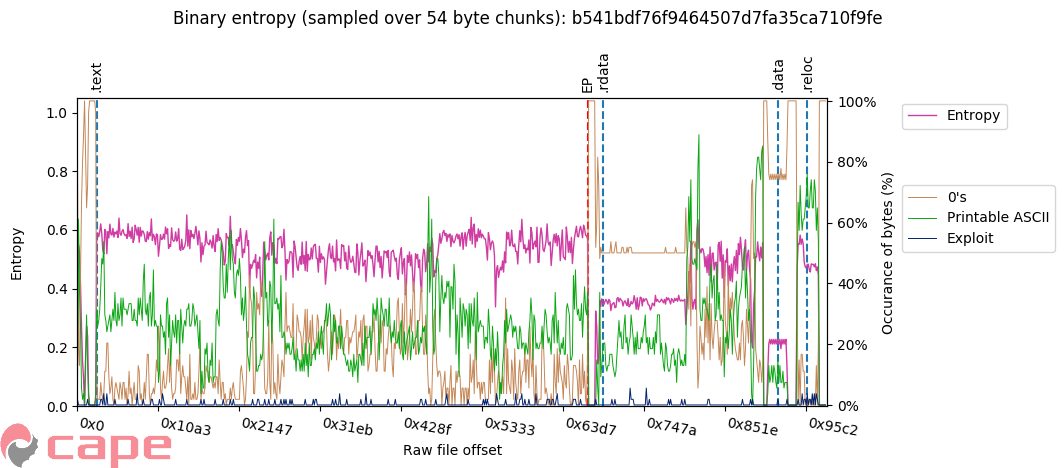
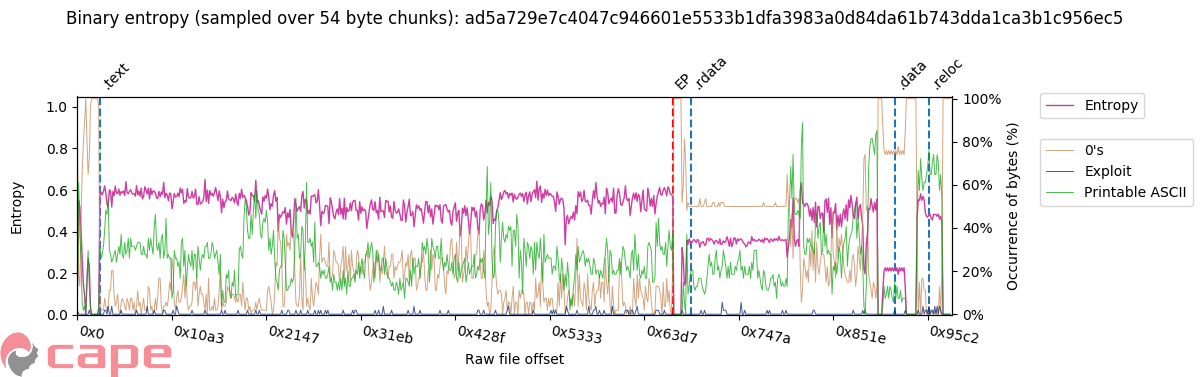
adjusted graphing box to incorporate title and added --showplts for interactive plots

Changed region(s): [[0.0, 0.1167, 1.0, 1.0], [0.031, 0.0, 0.9305, 0.0875]]

diff --git a/binGraph.py b/binGraph.py
@@ -18,7 +18,10 @@ import hashlib
 import statistics
 import os, re
 import json
+import sys
 
+if sys.version_info[0] < 3:
+    raise Exception('Must use Python 3')
 
 # # Helper functions
 def shannon_ent(labels, base=256):
@@ -63,9 +66,10 @@ def clean_fname(fn):
     return ''.join([c for c in fn if re.match(r'[\w\_\-]', c)])
 
 # ## Global variables
-__figformat__ = 'png'
-__figsize__ = (12,4)
-__figdpi__ = 100
+__figformat__ = 'png'   # Output format of saved figure
+__figsize__ = (12,4)    # Size of figure in inches
+__figdpi__ = 100        # DPI of figure
+__showplt__ = False     # Show the plot interactively
 
 
 # ## Byte histogram over all file
@@ -86,30 +90,30 @@ __ignore_0__ = True
 __bins__ = 1
 __g_log__ = 1
 __no_order__ = True
-def bin_hist(binname, frmt=__figformat__, figname=None, figsize=__figsize__, figdpi=__figdpi__, ignore_0=__ignore_0__, bins=__bins__, g_log=__g_log__, ordered=__no_order__):
+def bin_hist(binname, frmt=__figformat__, figname=None, figsize=__figsize__, figdpi=__figdpi__, ignore_0=__ignore_0__, bins=__bins__, g_log=__g_log__, ordered=__no_order__, showplt=__showplt__):
 
     if not figname:
         figname = 'bin_hist-{}.{}'.format(clean_fname(binname), frmt)
-        log.debug('No name given. Generated: {}'.format(figname))
+        log.info('No name given. Generated: {}'.format(figname))
 
     file_array = []
     with open(binname, 'rb') as fh:
         for x in fh.read():
             file_array.append(x)
 
-    log.debug('Read: "{}", length: {}'.format(binname, len(file_array)))
+    log.info('Read: "{}", length: {}'.format(binname, len(file_array)))
 
     ignore_0 = int(ignore_0)
-    log.debug('Ignore 0\'s: {}'.format(ignore_0))
+    log.info('Ignore 0\'s: {}'.format(ignore_0))
 
     fig, ax = plt.subplots(figsize=figsize, dpi=figdpi)
 
     if ignore_0:
         ax.set_xlim(1,255)
-        log.debug('Setting xlim to (1,255)')
+        log.info('Setting xlim to (1,255)')
     else:
         ax.set_xlim(0,255)
-        log.debug('Setting xlim to (0,255)')
+        log.info('Setting xlim to (0,255)')
 
     # # Add a byte hist ordered 1 > 255
     ordered_row = []
@@ -118,9 +122,9 @@ def bin_hist(binname, frmt=__figformat__, figname=None, figsize=__figsize__, fig
         ordered_row.append(c[x])
 
     ax.bar((range(ignore_0, 256)), ordered_row, bins, label='Bytes', color='r', log=g_log, zorder=0)
-    log.debug('Graphed binary array')
+    log.info('Graphed binary array')
 
-    # # Add a byte hist ordered by occurance - shows general distribution
+    # # Add a byte hist ordered by occurrence - shows general distribution
     if ordered:
         sorted_row = []
         c = Counter(file_array)
@@ -131,33 +135,36 @@ def bin_hist(binname, frmt=__figformat__, figname=None, figsize=__figsize__, fig
         sorted_row.reverse()
 
         ax.bar((range(ignore_0,256)), sorted_row, bins, label='Ordered', color='b', log=g_log, zorder=1, alpha=.5)
-        log.debug('Graphed ordered binary array')
+        log.info('Graphed ordered binary array')
 
     ax.xaxis.set_major_formatter(ticker.FuncFormatter(lambda x, pos: ('0x%x') % (int(x))))
     ax.xaxis.set_major_locator(MaxNLocator(20))
     ax.set_xlabel('Bytes')
-    ax.set_ylabel('Occurance (log {})'.format(g_log))
+    ax.set_ylabel('Occurrence (log {})'.format(g_log))
 
     plt.legend(loc=(1.03, 0.9))
 
-    fig.suptitle('Byte histogram: {}'.format(os.path.basename(binname)))
+    fig.suptitle('Byte histogram: {}'.format(os.path.basename(binname)), horizontalalignment='center', verticalalignment='top')
     fig.subplots_adjust(hspace=0.5)
 
-    logo = plt.imread('cape.png')
+    logo = plt.imread(os.path.dirname(os.path.realpath(__file__))+'/cape.png')
     fig.figimage(logo, alpha=.5, zorder=99)
 
-    plt.savefig(fname=figname, format=frmt, bbox_inches='tight')
-    log.debug('Saved to: "{}"'.format(figname))
+    fig.tight_layout(rect=[0, 0.03, 1, 0.95])
 
-    if False:
+    if showplt:
+        log.info('Opening graph interactively')
         plt.show()
+    else:
+        plt.savefig(fname=figname, format=frmt, bbox_inches='tight')
+        log.info('Saved to: "{}"'.format(figname))
 
     plt.clf()
     plt.cla()
-    plt.close(fig)
+    plt.close()
 
 
-# ## Entropy and byte occurance analysis over all file
+# ## Entropy and byte occurrence analysis over all file
 # # -------------------------------------------
 # # binname: file to load and analyse
 # # figsize: specify size of the figure ouputted
@@ -173,20 +180,20 @@ def bin_hist(binname, frmt=__figformat__, figname=None, figsize=__figsize__, fig
 __chunks__ = 750
 __ibytes__= '{"0\'s": [0], "Printable ASCII": [32, 33, 34, 35, 36, 37, 38, 39, 40, 41, 42, 43, 44, 45, 46, 47, 48, 49, 50, 51, 52, 53, 54, 55, 56, 57, 58, 59, 60, 61, 62, 63, 64, 65, 66, 67, 68, 69, 70, 71, 72, 73, 74, 75, 76, 77, 78, 79, 80, 81, 82, 83, 84, 85, 86, 87, 88, 89, 90, 91, 92, 93, 94, 95, 96, 97, 98, 99, 100, 101, 102, 103, 104, 105, 106, 107, 108, 109, 110, 111, 112, 113, 114, 115, 116, 117, 118, 119, 120, 121, 122, 123, 124, 125, 126], "Exploit": [44, 144]}'
 __ibytes_dict__ = json.loads(__ibytes__)
-def bin_ent(binname, frmt=__figformat__, figname=None, figsize=__figsize__, figdpi=__figdpi__, chunks=__chunks__, ibytes=__ibytes_dict__):
+def bin_ent(binname, frmt=__figformat__, figname=None, figsize=__figsize__, figdpi=__figdpi__, chunks=__chunks__, ibytes=__ibytes_dict__, showplt=__showplt__):
 
     if not figname:
         figname = 'bin_ent-{}.{}'.format(clean_fname(binname), frmt)
-        log.debug('No name given. Generated: {}'.format(figname))
+        log.info('No name given. Generated: {}'.format(figname))
 
     fh = open(binname, 'rb')
-    log.debug('Opening: "{}"'.format(binname))
+    log.info('Opening: "{}"'.format(binname))
 
     # # Calculate the overall chunksize 
     fs = os.fstat(fh.fileno()).st_size
     chunksize = -(-fs // chunks)
     nr_chunksize = fs / chunks
-    log.debug('Filesize: {}, Chunksize (rounded): {}, Chunksize: {}, Chunks: {}'.format(fs, chunksize, nr_chunksize, chunks))
+    log.info('Filesize: {}, Chunksize (rounded): {}, Chunksize: {}, Chunks: {}'.format(fs, chunksize, nr_chunksize, chunks))
 
     shannon_samples = []
 
@@ -194,8 +201,8 @@ def bin_ent(binname, frmt=__figformat__, figname=None, figsize=__figsize__, figd
     if len(ibytes) > 0:
         byte_ranges = {key: [] for key in ibytes.keys()}
 
-    log.debug('Going for iteration over bytes with chunksize {}'.format(chunksize))
-    log.debug('Using ibytes: {}'.format(ibytes))
+    log.info('Going for iteration over bytes with chunksize {}'.format(chunksize))
+    log.info('Using ibytes: {}'.format(ibytes))
 
     prev_ent = 0
     for chunk in get_chunk(fh, chunksize=chunksize):
@@ -212,14 +219,14 @@ def bin_ent(binname, frmt=__figformat__, figname=None, figsize=__figsize__, figd
             cbytes = Counter(chunk)
             for label, b_range in ibytes.items():
 
-                occurance = 0
+                occurrence = 0
                 for b in b_range:
-                    occurance += cbytes[b]
+                    occurrence += cbytes[b]
 
-                byte_ranges[label].append((float(occurance)/float(len(chunk)))*100)
+                byte_ranges[label].append((float(occurrence)/float(len(chunk)))*100)
 
     fh.close()
-    log.debug('Closed: "{}"'.format(binname))
+    log.info('Closed: "{}"'.format(binname))
 
     # # Draw the graphs in order
     zorder=99
@@ -232,61 +239,60 @@ def bin_ent(binname, frmt=__figformat__, figname=None, figsize=__figsize__, figd
     host.set_xlim([0, len(shannon_samples)+1])
     host.set_ylim([0, 1.05])
 
-    log.debug('Plotting shannon samples')
+    log.info('Plotting shannon samples')
     host.plot(shannon_samples, label='Entropy', c=section_colour('Entropy'), zorder=zorder, linewidth=1)
 
     host.set_ylabel('Entropy\n'.format(chunksize))
     host.set_xlabel('Raw file offset')
     host.xaxis.set_major_formatter(ticker.FuncFormatter(lambda x, pos: ('0x%x') % (int(x * nr_chunksize)))) 
     host.xaxis.set_major_locator(MaxNLocator(10))
-    plt.xticks(rotation=-10, ha='left')
-
+    plt.xticks(rotation=-10, horizontalalignment='left')
 
     # # Plot individual byte percentages
     if len(ibytes) > 0:
-        log.debug('Plotting ibytes')
+        log.info('Plotting ibytes')
 
         axBytePc = host.twinx()
         axBytePc.set_ylim([-0.3, 101])
-        axBytePc.set_ylabel('Occurance of bytes (%)')
+        axBytePc.set_ylabel('Occurrence of bytes (%)')
         axBytePc.yaxis.set_major_formatter(ticker.FuncFormatter(lambda x, pos: ('%i%%') % (x)))
 
         for label, percentages in byte_ranges.items():
             zorder -= zorder
             c = section_colour(label)
-            axBytePc.plot(percentages, label=label, c=c, zorder=zorder, linewidth=0.7)
+            axBytePc.plot(percentages, label=label, c=c, zorder=zorder, linewidth=0.7, alpha=0.75)
 
     # # Filetype specific additions
     try:
         exebin = lief.parse(filepath=binname)
-        log.debug('Parsed with lief as {}'.format(exebin.format))
+        log.info('Parsed with lief as {}'.format(exebin.format))
 
     except Exception as e:
         exebin = None
-        log.debug('Failed to parse with lief: {}'.format(e))
+        log.info('Failed to parse with lief: {}'.format(e))
 
     if exebin:
         if type(exebin) == lief.PE.Binary:
 
-            log.debug('Adding PE customisations')
+            log.info('Adding PE customisations')
 
             # # Entrypoint (EP) pointer and vline
             v_ep = exebin.va_to_offset(exebin.entrypoint) / nr_chunksize
             host.axvline(x=v_ep, linestyle='--', c='r')
-            host.text(x=v_ep, y=1.07, s='EP', rotation=90, verticalalignment='bottom', horizontalalignment='center')
+            host.text(x=v_ep, y=1.07, s='EP', rotation=45, verticalalignment='bottom', horizontalalignment='left')
 
             # # Section vlines
             for index, section in enumerate(exebin.sections):
 
-                log.debug('{}: {}'.format(fix_section_name(section, index), section.offset))
+                log.info('{}: {}'.format(fix_section_name(section, index), section.offset))
 
                 section_offset = section.offset / nr_chunksize
 
                 host.axvline(x=section_offset, linestyle='--')
-                host.text(x=section_offset, y=1.07, s=fix_section_name(section, index), rotation=90, verticalalignment='bottom', horizontalalignment='center')
+                host.text(x=section_offset, y=1.07, s=fix_section_name(section, index), rotation=45, verticalalignment='bottom', horizontalalignment='left')
 
         else:
-            log.debug('Not currently customised: {}'.format(exebin.format))
+            log.info('Not currently customised: {}'.format(exebin.format))
 
 
     # Add legends
@@ -298,22 +304,24 @@ def bin_ent(binname, frmt=__figformat__, figname=None, figsize=__figsize__, figd
     if len(ibytes) > 0:
         axBytePc.legend(loc=(1.1, 0.5))
 
-    logo = plt.imread('cape.png')
+    logo = plt.imread(os.path.dirname(os.path.realpath(__file__))+'/cape.png')
 
-    fig.suptitle('Binary entropy (sampled over {} byte chunks): {}'.format(chunksize, os.path.basename(binname)), y=1.1)
+    fig.suptitle('Binary entropy (sampled over {} byte chunks): {}'.format(chunksize, os.path.basename(binname)), horizontalalignment='center', verticalalignment='top', y=0.93)
     fig.subplots_adjust(hspace=0.5)
-
     fig.figimage(logo, alpha=.5, zorder=99)
 
-    plt.savefig(fname=figname, format=frmt, bbox_inches='tight')
-    log.debug('Saved to: "{}"'.format(figname))
+    fig.tight_layout(rect=[0, 0, 1, 0.76])
 
-    if False:
+    if showplt:
+        log.info('Opening graph interactively')
         plt.show()
+    else:
+        plt.savefig(fname=figname, format=frmt, bbox_inches='tight')
+        log.info('Saved to: "{}"'.format(figname))
 
     plt.clf()
     plt.cla()
-    plt.close(fig)
+    plt.close()
 
 
 def section_graphs():
@@ -388,7 +396,7 @@ def section_graphs():
     # # bins int:      Sample bins
     # # log int:       Amount of 'log' to apply to the graph
     # # ordered bool:  Add an ordered histogram - show overall distribution
-    def section_byte_occurance_histogram(pebin, fig, ncols=2, ignore_0=True, bins=1, log=1, ordered=True):
+    def section_byte_occurrence_histogram(pebin, fig, ncols=2, ignore_0=True, bins=1, log=1, ordered=True):
 
         ignore_0 = int(ignore_0)
 
@@ -407,7 +415,7 @@ def section_graphs():
 
             ax.bar((range(ignore_0,256)), ordered_row, bins, color=c1, log=log, zorder=1)
 
-            # # Add a byte hist ordered by occurance - shows general distribution
+            # # Add a byte hist ordered by occurrence - shows general distribution
             if ordered:
                 sorted_row = []
                 c = Counter(section.content)
@@ -448,8 +456,8 @@ if __name__ == '__main__':
     parser.add_argument('--format', type=str, default=__figformat__, choices=['png', 'pdf', 'ps', 'eps','svg'], required=False, metavar='png', help='Graph output format')
     parser.add_argument('--figsize', type=int, nargs=2, default=__figsize__, metavar='#', help='Figure width and height in inches')
     parser.add_argument('--dpi', type=int, default=__figdpi__, metavar=__figdpi__, help='Figure dpi')
+    parser.add_argument('--showplt', action="store_true", default=__showplt__, help='Show plot interactively (disables saving to file)')
     parser.add_argument('-v', '--verbose', action='store_true', help='Print debug information to stderr')
-
 
     subparsers = parser.add_subparsers(dest='graphtype', help='Graph type to generate')
     subparsers.required = True
@@ -474,7 +482,7 @@ if __name__ == '__main__':
 
     # # Set logging
     if args.verbose:
-        logging.basicConfig(stream=sys.stderr, format='Verbose | %(levelname)s | %(message)s', level=logging.DEBUG)
+        logging.basicConfig(stream=sys.stderr, format='Verbose | %(levelname)s | %(message)s', level=logging.INFO)
     else:
         logging.basicConfig(stream=sys.stderr, format='*** %(levelname)s | %(message)s', level=logging.CRITICAL)
 
@@ -487,7 +495,7 @@ if __name__ == '__main__':
         if not os.path.isfile(f):
             log.critical('Not a file, skipping: "{}"'.format(f))
         else:
-            log.debug('File exists: "{}"'.format(f))
+            log.info('File exists: "{}"'.format(f))
             files.append(f)
 
     # # Is the save_dir actually a dirctory?
@@ -496,7 +504,7 @@ if __name__ == '__main__':
         log.critical('--save_dir ({}), is not a directory...'.format(args.save_dir))
         exit(1)
     else:
-        log.debug('Saving graphs to directory "{}"'.format(args.save_dir))
+        log.info('Saving graphs to directory "{}"'.format(args.save_dir))
 
     # # Detect if all graphs are being requested + set required defaults
     graph_types = []
@@ -504,12 +512,13 @@ if __name__ == '__main__':
 
         graph_types.append('bin_ent')
         args.ibytes = __ibytes__
+        args.chunks = __chunks__
 
         graph_types.append('bin_hist')
         args.ignore_0 = __ignore_0__
         args.bins = __bins__
         args.log = __g_log__
-        args.ordered = __no_order__
+        args.no_order = __no_order__
 
     else:
         graph_types = [args.graphtype]
@@ -517,33 +526,33 @@ if __name__ == '__main__':
     # # Iterate over all given files
     for index, file in enumerate(files):
 
-        log.debug('+++ Processing: "{}"'.format(file))
+        log.info('+++ Processing: "{}"'.format(file))
 
         clean_fn = clean_fname(os.path.basename(file))
 
-        if len(args.file) > 0 and args.prefix:
-            save_fn = '{arg_prefix}-{clean_fn}-{{}}-{figsize}_{dpi}-{index}.{format}'.format(arg_prefix=args.prefix, clean_fn=clean_fn, figsize='x'.join(map(str, args.figsize)), dpi=args.dpi, index=index, format=args.format)
-        elif len(args.file) > 0 and not args.prefix:
-            save_fn = '{clean_fn}-{{}}-{figsize}_{dpi}-{index}.{format}'.format(clean_fn=clean_fn, figsize='x'.join(map(str, args.figsize)), dpi=args.dpi, index=index, format=args.format)
+        if len(args.file) > 1 and args.prefix:
+            save_fn = '{arg_prefix}-{clean_fn}-{{}}-{index}.{format}'.format(arg_prefix=args.prefix, clean_fn=clean_fn, index=index, format=args.format)
+        elif len(args.file) > 1 and not args.prefix:
+            save_fn = '{clean_fn}-{{}}-{index}.{format}'.format(clean_fn=clean_fn, index=index, format=args.format)
 
         elif len(args.file) == 1 and args.prefix:
-            save_fn = '{arg_prefix}.{format}'.format(arg_prefix=args.prefix, format=args.format)
+            save_fn = '{arg_prefix}-{{}}.{format}'.format(arg_prefix=args.prefix, format=args.format)
+        elif len(args.file) == 1 and args.prefix and len(graph_types) > 1:
+            save_fn = '{arg_prefix}-{{}}.{format}'.format(arg_prefix=args.prefix, format=args.format)
         elif len(args.file) == 1 and not args.prefix:
-            save_fn = '{clean_fn}-{{}}-{figsize}_{dpi}-{index}.{format}'.format(clean_fn=clean_fn, figsize='x'.join(map(str, args.figsize)), dpi=args.dpi, index=index, format=args.format)
+            save_fn = '{clean_fn}-{{}}.{format}'.format(clean_fn=clean_fn, format=args.format)
 
         save_fn = os.path.join(args.save_dir, save_fn)
 
         if 'bin_ent' in graph_types:
             __save_fn__ = save_fn.format('bin_ent')
-            log.debug('+ Generating bin_ent from "{}"'.format(file))
-            bin_ent(binname=file, frmt=args.format, figname=__save_fn__, figsize=(args.figsize[0], args.figsize[1]), figdpi=args.dpi, chunks=args.chunks, ibytes=json.loads(args.ibytes))
+            log.info('+ Generating bin_ent from "{}"'.format(file))
+            bin_ent(binname=file, frmt=args.format, figname=__save_fn__, figsize=(args.figsize[0], args.figsize[1]), figdpi=args.dpi, chunks=args.chunks, ibytes=json.loads(args.ibytes), showplt=args.showplt)
 
         if 'bin_hist' in graph_types:
             __save_fn__ = save_fn.format('bin_hist')
-            log.debug('+ Generating bin_hist from "{}"'.format(file))
-            bin_hist(binname=file, frmt=args.format, figname=__save_fn__, figsize=(args.figsize[0], args.figsize[1]), figdpi=args.dpi, ignore_0=args.ignore_0, bins=args.bins, g_log=args.log, ordered=args.no_order)
+            log.info('+ Generating bin_hist from "{}"'.format(file))
+            bin_hist(binname=file, frmt=args.format, figname=__save_fn__, figsize=(args.figsize[0], args.figsize[1]), figdpi=args.dpi, ignore_0=args.ignore_0, bins=args.bins, g_log=args.log, ordered=args.no_order, showplt=args.showplt)
 
-        log.debug('+++ Complete: "{}"'.format(file))
-
-
+        log.info('+++ Complete: "{}"'.format(file))
 
